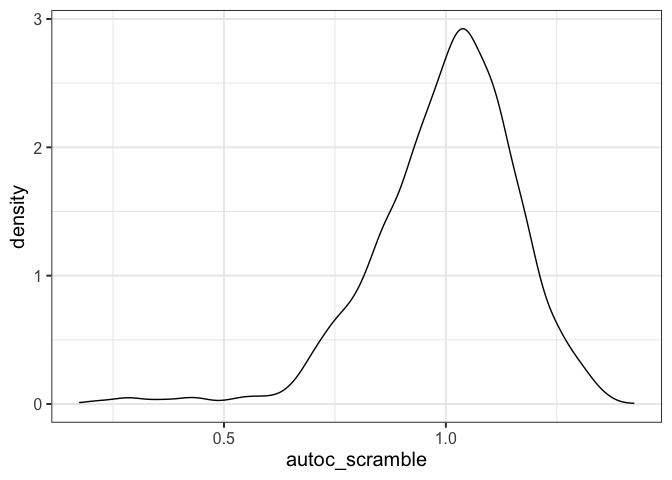
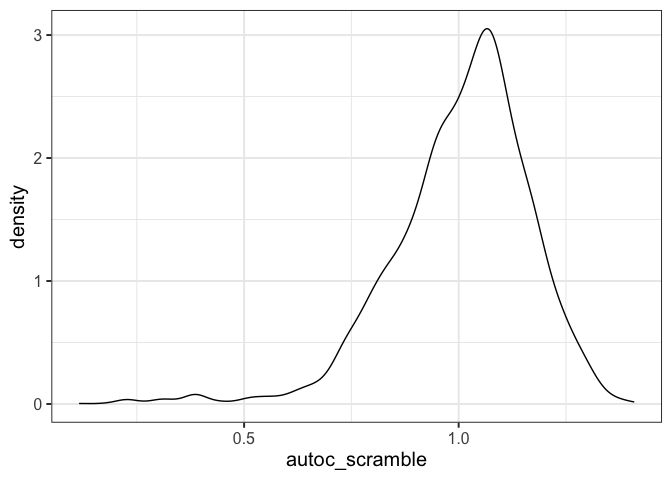
add noise

diff --git a/code/notebooks/2026-07-09_check-autoc.md b/code/notebooks/2026-07-09_check-autoc.md
@@ -90,16 +90,53 @@ all_runs %>%
 
 ![](figures/2026-07-09_check-autoc/unnamed-chunk-7-1.png)<!-- -->
 
+try adding small amount of error - Gaussian noise
+
 ``` r
-all_runs %>% 
-  summarise(median(autoc_clean), median(autoc_scramble))
+all_runs <- all_runs %>%
+  mutate(
+    df_out = purrr::map(df_out, ~
+      dplyr::mutate(
+        .x,
+        cate_pred_noisy = 
+          cate_pred + rnorm(length(cate_pred), 
+                            mean = 0, 
+                            sd = sd(cate_pred) * 0.1)
+      )
+    )
+  ) %>%
+  mutate(autoc_noisy = purrr::map(
+    .x = df_out,
+    .f = ~ autoc_norm_vec(truth = .x$cate_real,
+                     estimate = .x$cate_pred_noisy)
+  )) %>%
+  unnest(autoc_noisy) %>%
+  mutate(autoc_noisy = 1 - autoc_noisy) # so lower is better
 ```
 
-    ## # A tibble: 1 × 2
-    ##   `median(autoc_clean)` `median(autoc_scramble)`
-    ##                   <dbl>                    <dbl>
-    ## 1                 0.630                     1.02
+``` r
+# 0 = perfect ranking and 1 = no useful ranking
+all_runs %>% 
+  ggplot(aes(x = autoc_noisy)) +
+  geom_density()
+```
 
-median(autoc_clean) = 0.63 → better than random
+![](figures/2026-07-09_check-autoc/unnamed-chunk-9-1.png)<!-- -->
 
-median(autoc_scramble) = 1.016 → essentially null
+``` r
+all_runs %>% 
+  summarise(median(autoc_clean), 
+            median(autoc_scramble),  
+            median(autoc_noisy))
+```
+
+    ## # A tibble: 1 × 3
+    ##   `median(autoc_clean)` `median(autoc_scramble)` `median(autoc_noisy)`
+    ##                   <dbl>                    <dbl>                 <dbl>
+    ## 1                 0.630                     1.03                 0.633
+
+median(autoc_clean) → better than random
+
+median(autoc_noisy) → small amount of error is similar to autoc_clean
+
+median(autoc_scramble) → essentially null
